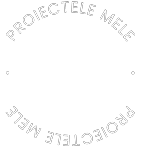
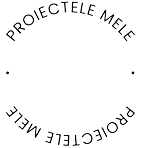
Commit

diff --git a/app/page.jsx b/app/page.jsx
@@ -12,9 +12,9 @@ import { fadeIn } from "../variants";
 
 const Home = () => {
   return (
-    <div className='bg-primary/60 h-full'>
+    <div className=' h-full'>
       {/* text */}
-      <div className='w-full h-full bg-gradient-to-r from-primary/10 via-black/30 to-black/10'>
+      <div className='w-full h-full bg-gradient-to-r '>
         <div className='text-center flex flex-col justify-center xl:pt-40 xl:text-left h-full container mx-auto'>
           {/* title */}
           <motion.h1
@@ -33,7 +33,7 @@ const Home = () => {
             initial='hidden'
             animate='show'
             exit='hidden'
-            className='max-w-sm xl:max-w-xl mx-auto xl:mx-0 mb-10 xl:mb-16'
+            className='max-w-sm xl:max-w-xl mx-auto xl:mx-0 mb-10 xl:mb-16 text-black'
           >
             În spațiul nostru creativ, transformăm fiecare concept într-o realitate vibrantă și autentică. Fiecare design captează unicitatea ta, conturând și detaliind povestea ta personală
           </motion.p>
@@ -53,13 +53,16 @@ const Home = () => {
         </div>
       </div>
       {/* image */}
-      <div className='w-[1200px] h-full absolute right-0 bottom-0'>
+      {/* <div className='w-[1200px] h-full absolute right-0 bottom-0'> */}
         {/* bg image */}
-        <div className='bg-none xl:bg-explosion xl:bg-cover xl:bg-right xl:bg-no-repeat w-full h-full absolute mix-blend-color-dodge translate-z-0'></div>
+        {/* DELETE */}
+        {/* <div className='bg-none xl:bg-explosion xl:bg-cover xl:bg-right xl:bg-no-repeat w-full h-full absolute mix-blend-color-dodge translate-z-0'></div> */}
+        {/* DELETE */}
+        
         {/* particles */}
         {/* <ParticleContainer />  */}
         {/* avatar */}
-        <motion.div
+        {/* <motion.div
           variants={fadeIn("up", 0.5)}
           initial='hidden'
           animate='show'
@@ -68,8 +71,8 @@ const Home = () => {
           className='w-full h-full max-w-[737px] max-h-[678px] absolute -bottom-32 lg:bottom-0 lg:right-[8%]'
         >
           <Avatar />
-        </motion.div>
-      </div>
+        </motion.div> */}
+      {/* </div> */}
     </div>
   );
 };

diff --git a/app/components/Nav.jsx b/app/components/Nav.jsx
@@ -32,8 +32,8 @@ export const navData = [
 const Nav = () => {
   const pathname = usePathname();
   return (
-    <nav className='flex flex-col items-center gap-y-4 fixed h-max bottom-0 xl:right-[2%] w-full xl:w-16 xl:max-w-md z-50  xl:justify-center xl:h-screen'>
-      <div className='flex w-full xl:flex-col items-center justify-between xl:justify-center gap-y-10 px-4 md:px-40 xl:px-0 h-[80px] xl:h-max py-8 bg-white/10 backdrop-blur-sm text-3xl xl:text-xl xl:rounded-full'>
+    <nav className='flex flex-col items-center gap-y-4 fixed h-max bottom-0 xl:right-[2%] w-full xl:w-16 xl:max-w-md z-50  xl:justify-center xl:h-screen '>
+      <div className='flex w-full xl:flex-col items-center justify-between xl:justify-center gap-y-10 px-4 md:px-40 xl:px-0 h-[80px] xl:h-max py-8 bg-white/60 backdrop-blur-sm text-3xl xl:text-xl xl:rounded-full border-[1px] border-black'>
         {navData.map((link, index) => {
           return (
             <Link
@@ -46,7 +46,7 @@ const Nav = () => {
               {/* tooltip */}
               <div className='absolute pr-14 right-0 hidden xl:group-hover:flex'>
                 <div className='bg-white relative flex text-primary items-center p-[6px] rounded-[3px]'>
-                  <div className='text-[12px] leading-none font-semibold capitalize'>
+                  <div className='text-[18px] leading-none font-semibold capitalize'>
                     {link.name}
                   </div>
                   {/* triangle */}

diff --git a/app/components/Layout.jsx b/app/components/Layout.jsx
@@ -23,13 +23,13 @@ const Layout = ({ children }) => {
   return (
     <html
       lang='en'
-      className='bg-site text-white  bg-cover bg-no-repeat bg-fixed bg-center relative'
+      className='bg-site bg-cover bg-no-repeat bg-fixed bg-center relative'
     >
       <AnimatePresence mode='wait'>
-        <body className={`${poppins.className} page`}>
+        <body className={`${poppins.className} page text-black`}>
           <motion.div key={router} className='h-full'>
             <Transition />
-            <TopLeftImg />
+            {/* <TopLeftImg /> */}
             <Nav />
             <Header />
             {children}

diff --git a/tailwind.config.js b/tailwind.config.js
@@ -19,15 +19,15 @@ module.exports = {
     },
     extend: {
       colors: {
-        primary: '#131424',
+        primary: 'black',
         secondary: '#393A47',
         accent: '#F13024',
+        site: '#FDF7E4',  
       },
       backgroundImage: {
         explosion: "url('/bg-explosion.png')",
         circles: "url('/bg-circles.png')",
         circleStar: "url('/circle-star.svg')",
-        site: "url('/site-bg.svg')",
       },
       animation: {
         'spin-slow': 'spin 6s linear infinite',
